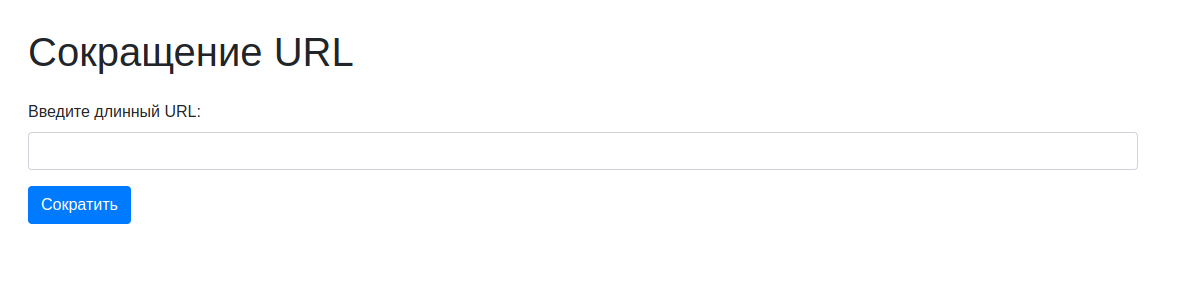
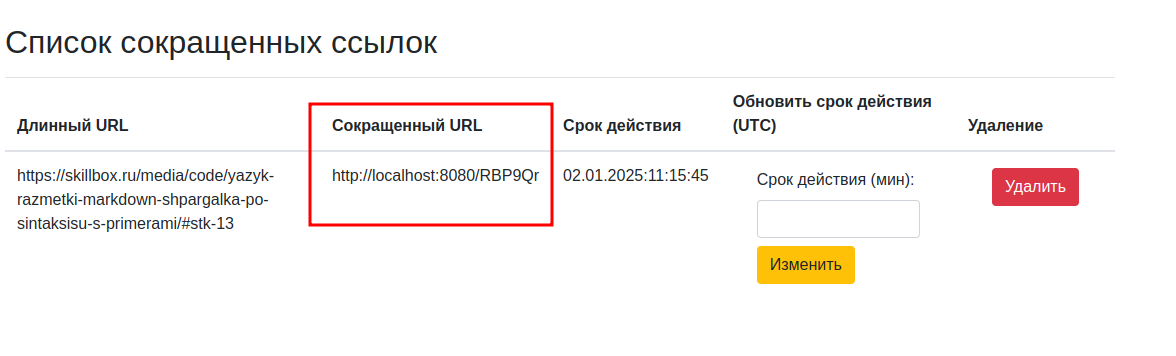
Корректировки согласно тз. Добавления возможности редактирования созданных ссылок

diff --git a/src/main/resources/templates/urlForm.html b/src/main/resources/templates/urlForm.html
@@ -1,5 +1,5 @@
 <!DOCTYPE html>
-<html xmlns:th="http://www.thymeleaf.org">
+<html xmlns:th="http://www.thymeleaf.org" lang="ru">
 <head>
     <title>Сокращение URL</title>
     <link rel="stylesheet" href="https://maxcdn.bootstrapcdn.com/bootstrap/4.5.2/css/bootstrap.min.css">
@@ -13,11 +13,47 @@
             <input type="text" id="longUrl" name="longUrl" class="form-control" required>
         </div>
         <div class="form-group">
-            <label for="expirationMinutes">Срок действия (в минутах):</label>
-            <input type="number" id="expirationMinutes" name="expirationMinutes" class="form-control" min="1" value="60" required>
+            <label for="expirationMinutes">Срок действия (в минутах): </label>
+            <input type="number" id="expirationMinutes" name="expirationMinutes" class="form-control" th:min="${@linkConfig.getExpirationDateMin()}" value="60"
+                   required>
         </div>
         <button type="submit" class="btn btn-primary">Сократить</button>
     </form>
+
+    <h2 class="mt-5">Список сокращенных ссылок</h2>
+    <table class="table mt-3">
+        <thead>
+        <tr>
+            <th>Длинный URL</th>
+            <th>Сокращенный URL</th>
+            <th>Срок действия</th>
+            <th>Обновить срок действия (UTC)</th>
+            <th>Удаление</th>
+        </tr>
+        </thead>
+        <tbody>
+        <tr th:each="link : ${links}">
+            <td th:text="${link.longUrl}"></td>
+            <td th:text="${link.shortUrl}"></td>
+            <td th:text="${link.expirationDate}"></td>
+            <td>
+                <form th:action="@{/updateExpiration}" method="post" class="dropdown-item">
+                    <input type="hidden" name="uuid" th:value="${link.uuid}"/>
+                    <label for="expirationMinutes">Срок действия (мин):</label>
+                    <input type="number" name="expirationMinutes" class="form-control" th:min="${@linkConfig.getExpirationDateMin()}"
+                           th:value="${link.expirationDate}" required/>
+                    <button type="submit" class="btn btn-warning mt-2">Изменить</button>
+                </form>
+            </td>
+            <td>
+                <form th:action="@{/deleteLink}" method="post" class="dropdown-item">
+                    <input type="hidden" name="uuid" th:value="${link.uuid}"/>
+                    <button type="submit" class="btn btn-danger">Удалить</button>
+                </form>
+            </td>
+        </tr>
+        </tbody>
+    </table>
 </div>
 </body>
 </html>

diff --git a/src/main/java/ru/shorter/service/LinkService.java b/src/main/java/ru/shorter/service/LinkService.java
@@ -1,7 +1,9 @@
 package ru.shorter.service;
 
 import org.springframework.stereotype.Service;
+import org.springframework.transaction.annotation.Transactional;
 
+import jakarta.servlet.http.HttpSession;
 import lombok.RequiredArgsConstructor;
 import lombok.extern.slf4j.Slf4j;
 import ru.shorter.config.LinkConfig;
@@ -11,7 +13,11 @@ import ru.shorter.service.exception.LimitClicksException;
 import ru.shorter.service.exception.NoSuchLinkException;
 
 import java.time.Instant;
+import java.util.List;
 import java.util.UUID;
+
+import static java.time.Instant.ofEpochMilli;
+import static ru.shorter.config.LinkConfig.USER_ATTR;
 
 /**
  * Сервис по работе со ссылками.
@@ -30,11 +36,11 @@ public class LinkService {
     /**
      * Создает сокращенную ссылку на основании длинной.
      */
-    public String create(String longUrl, UUID uuidUser, long expirationMinutes) {
+    public void create(String longUrl, UUID uuidUser, long expirationMinutes) {
         // ограничим указанное пользователем время жизни ссылки.
-        var ttl = linkConfig.getExpirationDate();
+        var ttl = minutesToMilliseconds(linkConfig.getExpirationDateMin());
         var expirationMilliseconds = minutesToMilliseconds(expirationMinutes);
-        if (expirationMilliseconds > ttl){
+        if (expirationMilliseconds > ttl) {
             ttl = expirationMilliseconds;
         }
 
@@ -42,11 +48,9 @@ public class LinkService {
         link.setLongLink(longUrl);
         link.setUserUuid(uuidUser);
         link.setShortLink(urlShortenerService.shortenUrl(longUrl));
-        link.setExpirationDate(Instant.ofEpochMilli(Instant.now().toEpochMilli() + ttl));
+        link.setExpirationDate(ofEpochMilli(Instant.now().toEpochMilli() + ttl));
 
-        link = linkRepository.save(link);
-
-        return link.getShortLink();
+        linkRepository.save(link);
     }
 
     /**
@@ -74,7 +78,36 @@ public class LinkService {
         return link.getLongLink();
     }
 
-    private static long minutesToMilliseconds(long minutes) {
+    /**
+     * Получает все сохраненные ссылки сохраненные для пользователя в рамках одной сессии.
+     */
+    public List<Link> getAllLinksForUser(HttpSession session) {
+        var uuidUser = (UUID) session.getAttribute(USER_ATTR);
+        return linkRepository.findAllByUserUuid(uuidUser);
+    }
+
+    /**
+     * Удаляет ссылку из БД.
+     */
+    @Transactional
+    public void deleteLink(UUID uuid) {
+        log.debug("Будет удалена запись о ссылке с идентификатором {}", uuid);
+        linkRepository.deleteByUuid(uuid);
+    }
+
+    /**
+     * Обновляет срок действия ссылки.
+     */
+    public void updateExpiration(UUID uuid, long expirationMinutes) {
+        var link = linkRepository.findByUuid(uuid)
+                .orElseThrow(NoSuchLinkException::new);
+
+        link.setExpirationDate(ofEpochMilli(link.getExpirationDate().toEpochMilli() + minutesToMilliseconds(expirationMinutes)));
+
+        linkRepository.save(link);
+    }
+
+    private long minutesToMilliseconds(long minutes) {
         return minutes * 60 * 1000;
     }
 }

diff --git a/src/main/java/ru/shorter/controller/UrlShortenerController.java b/src/main/java/ru/shorter/controller/UrlShortenerController.java
@@ -8,8 +8,13 @@ import org.springframework.web.bind.annotation.RequestParam;
 
 import jakarta.servlet.http.HttpSession;
 import lombok.RequiredArgsConstructor;
+import ru.shorter.model.Link;
+import ru.shorter.model.LinkDto;
 import ru.shorter.service.LinkService;
 import ru.shorter.service.UserUuidService;
+
+import java.util.List;
+import java.util.UUID;
 
 /**
  * Контроллер, который отвечает за создание короткой ссылки.
@@ -20,6 +25,10 @@ import ru.shorter.service.UserUuidService;
 @RequiredArgsConstructor
 public class UrlShortenerController {
 
+    public static final String ATTRIBUTE_NAME_LINKS = "links";
+    public static final String URL_FORM = "urlForm";
+    public static final String REDIRECT_TO_ROOT = "redirect:/";
+
     private final LinkService linkService;
     private final UserUuidService userUuidService;
 
@@ -27,20 +36,44 @@ public class UrlShortenerController {
      * Возвращает основную страницу.
      */
     @GetMapping("/")
-    public String showForm() {
-        return "urlForm";
+    public String showForm(Model model, HttpSession session) {
+        List<Link> links = linkService.getAllLinksForUser(session);
+
+        var linkDtos = links.stream()
+                .map(LinkDto::map)
+                .toList();
+
+        model.addAttribute(ATTRIBUTE_NAME_LINKS, linkDtos);
+
+        return URL_FORM;
     }
 
     /**
      * Формирует короткую ссылку.
      */
     @PostMapping("/shorten")
-    public String shortenUrl(@RequestParam String longUrl, @RequestParam long expirationMinutes,  Model model, HttpSession session) {
+    public String shortenUrl(@RequestParam String longUrl, @RequestParam long expirationMinutes, HttpSession session) {
         var uuidUser = userUuidService.generateUuid(session);
-        String shortUrl = linkService.create(longUrl, uuidUser, expirationMinutes);
-        model.addAttribute("shortUrl", shortUrl);
+        linkService.create(longUrl, uuidUser, expirationMinutes);
+        return REDIRECT_TO_ROOT;
+    }
 
-        return "result";
+    /**
+     * Обновляет срок действия ссылки.
+     */
+    @PostMapping("/updateExpiration")
+    public String updateExpiration(@RequestParam UUID uuid, @RequestParam long expirationMinutes) {
+        linkService.updateExpiration(uuid, expirationMinutes);
+        return REDIRECT_TO_ROOT;
+    }
+
+    /**
+     * Удаляет ссылку.
+     */
+    @PostMapping("/deleteLink")
+    public String deleteLink(@RequestParam UUID uuid) {
+        linkService.deleteLink(uuid);
+        return REDIRECT_TO_ROOT;
     }
 
 }

diff --git a/src/main/java/ru/shorter/model/Link.java b/src/main/java/ru/shorter/model/Link.java
@@ -1,5 +1,6 @@
 package ru.shorter.model;
 
+import jakarta.persistence.Column;
 import jakarta.persistence.Entity;
 import jakarta.persistence.GeneratedValue;
 import jakarta.persistence.GenerationType;
@@ -20,12 +21,38 @@ import java.util.UUID;
 @Setter
 public class Link {
 
+    /**
+     * Идентификатор ссылки.
+     */
     @Id
     @GeneratedValue(strategy = GenerationType.UUID)
-    private UUID id;
+    private UUID uuid;
+
+    /**
+     * Сохраненное значение длинной ссылки.
+     *
+     * @implNote Ожидается, что 1000 символов на хранение должно хватить.
+     */
+    @Column(length = 1000)
     private String longLink;
+
+    /**
+     * Сохраненное значение короткой ссылки.
+     */
     private String shortLink;
+
+    /**
+     * Идентификатор пользователя.
+     */
     private UUID userUuid;
+
+    /**
+     * Количество срабатываний ссылки.
+     */
     private int clicksLeft;
+
+    /**
+     * Время когда ссылка устареет.
+     */
     private Instant expirationDate;
 }

diff --git a/src/main/java/ru/shorter/model/LinkDto.java b/src/main/java/ru/shorter/model/LinkDto.java
@@ -1,0 +1,41 @@
+package ru.shorter.model;
+
+import lombok.Builder;
+import lombok.Data;
+
+import java.time.LocalDateTime;
+import java.time.ZoneOffset;
+import java.time.format.DateTimeFormatter;
+import java.util.UUID;
+
+/**
+ * Класс для отображения объекта {@link Link}.
+ *
+ * @author Бородулин Никита Петрович.
+ */
+@Data
+@Builder
+public class LinkDto {
+
+    private UUID uuid;
+    private String longUrl;
+    private String shortUrl;
+    private String expirationDate;
+
+
+    /**
+     * Преобразует объект, для отражения на клиенте.
+     */
+    public static LinkDto map(Link entity) {
+        var europeanDatePattern = "dd.MM.yyyy:HH:mm:ss";
+        var localDate = LocalDateTime.ofInstant(entity.getExpirationDate(), ZoneOffset.UTC);
+        var formatLocalDate = localDate.format(DateTimeFormatter.ofPattern(europeanDatePattern));
+
+        return LinkDto.builder()
+                .uuid(entity.getUuid())
+                .longUrl(entity.getLongLink())
+                .shortUrl(entity.getShortLink())
+                .expirationDate(formatLocalDate)
+                .build();
+    }
+}

diff --git a/src/main/java/ru/shorter/dao/LinkRepository.java b/src/main/java/ru/shorter/dao/LinkRepository.java
@@ -5,6 +5,7 @@ import org.springframework.stereotype.Repository;
 
 import ru.shorter.model.Link;
 
+import java.util.List;
 import java.util.Optional;
 import java.util.UUID;
 
@@ -16,6 +17,9 @@ import java.util.UUID;
 @Repository
 public interface LinkRepository extends JpaRepository<Link, Long> {
 
+    List<Link> findAllByUserUuid(UUID userId);
     Optional<Link> findByShortLink(String shortLink);
-    Optional<Link> findByUserUuidAndLongLink(UUID userUuid,  String longLink);
+    Optional<Link> findByUuid(UUID uuid);
+    void deleteByUuid(UUID uuid);
+
 }

diff --git a/src/main/java/ru/shorter/config/LinkConfig.java b/src/main/java/ru/shorter/config/LinkConfig.java
@@ -22,5 +22,5 @@ public class LinkConfig {
     private int defaultClicks;
     private int urlLength;
     private String baseUrl;
-    private long expirationDate;
+    private long expirationDateMin;
 }

diff --git a/README.md b/README.md
@@ -18,7 +18,7 @@
 
 * Ограничение времени жизни ссылки. Время жизни ссылки должно задаваться системой и ограничиваться определенным сроком (например, сутки). После истечения этого срока ссылка должна автоматически удаляться.
 
-При создании ссылки будет сформировано время ее устаревания. Для этого берется текущее время и срок жизни указанный пользователем на форме. Срок указан в минутах. Минимальное значение ограничено в  настройках (по умолчанию это 10 минут). Если значение меньше, данного минимума, то будет применено данное значение(в описании задания не определено поведение в данном случае, поэтому мной заложена такая логика). Для очистки устаревших ссылок используется регламентное задание в `ExpiredLinkService.java` которое срабатывает также раз в 10 минут.
+При создании ссылки будет сформировано время ее устаревания. Для этого берется текущее время и срок жизни указанный пользователем на форме. Срок указан в минутах. Минимальное значение ограничено в настройках (по умолчанию это 10 минут). Если значение меньше, данного минимума, то будет выдано соответствующее сообщение на форме. Для очистки устаревших ссылок используется регламентное задание в `ExpiredLinkService.java` которое срабатывает также раз в 10 минут.
 
 * Уведомление пользователя. Пользователь должен получать уведомление, если лимит переходов исчерпан или время жизни ссылки истекло.
 
@@ -36,20 +36,26 @@
 Также можно собрать .jar файл приложения с помощью gradle и запустить из консоли. Запуск с помощью докер не предусмотрен. Запуск приложений с помощью систем контейнеризации был рассмотрен в других модулях программы.
 
 ## Как пользоваться
+Для начала работы с приложением необходимо перейти по адресу http://localhost:8080. В результате вы получите форму где надо будет вести урл, который вы хотите сократить. 
 
-Для начала работы с приложением необходимо перейти по адресу http://localhost:8080. В результате вы получите форму где надо будет вести урл, который вы хотите сократить.
-![img_1.png](doc/img_1.png)
+![img_5.png](doc/img_5.png)
 
-После ввода урал и при нажатии на кнопку `сократить`, будет получено окно типа:
+После ввода урал и при нажатии на кнопку `сократить`, ваша сокращенная ссылка будет добавлена в список ниже. Теперь, для этой ссылки доступна возможность редактирования: вы можете удалить ее или увеличить срок действия.
+
 ![img_2.png](doc/img_2.png)
 
 Где красным выделена ссылка, которую можно скопировать и перейти по ней.
 
+![img_1.png](doc/img_1.png)
+
 Количество переходов по ссылке ограничено настройками приложения. Если количество переходов превышено, тогда вы увидите данное сообщение и вам будет предложено сформировать ссылку заново.
-![img.png](doc/img.png)
+![img_6.png](doc/img_6.png)
 
 Если ссылки по которой вы собираетесь перейти нет, то будет получено следующее сообщение 
 ![img_3.png](doc/img_3.png)
 
 Если при сокращении ссылки не ввести урл, то будет получено следующее сообщение:
 ![img_4.png](doc/img_4.png)
+
+Если попытаться внести время жизни ссылки меньше, чем это ограничено настройками, тогда будет получено сообщение вида:
+![img.png](doc/img.png)
